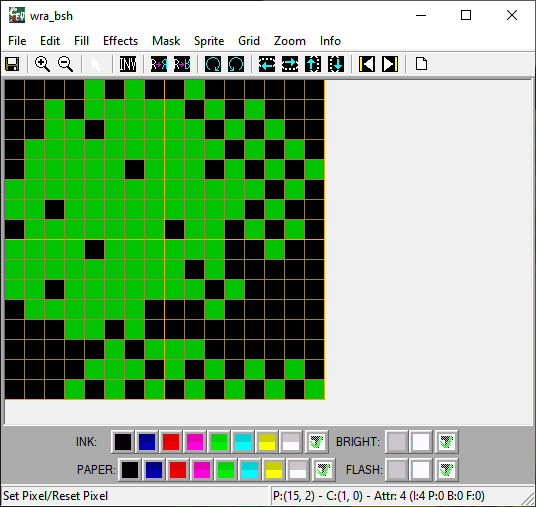
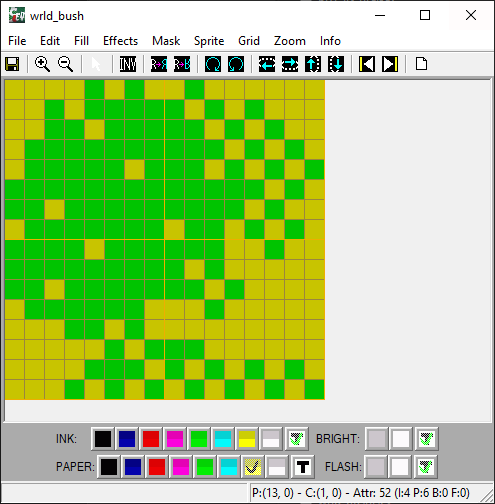
zxelda v4

diff --git a/lib/motorzx.h b/lib/motorzx.h
@@ -1,5 +1,37 @@
 // motorzx.h
 
+/*
+creacion de la funcion print sprite 8x8
+
+Formato del sprite (9 bytes total):
+
+Bytes 0–7: datos de píxeles (1 byte por fila × 8 filas)
+Byte 8: atributo de color (tinta + papel, usando la tabla del encabezado)
+
+Lógica del bucle draw9:
+
+ldi — copia 1 byte de píxeles de HL→DE y avanza ambos
+dec de — retrocede DE a la misma columna (deshace el avance de LDI)
+inc d — sube al siguiente pixel-row dentro del bloque de carácter (incrementa los bits 10–8 de la dirección de pantalla)
+djnz draw9 — repite 8 veces (C=255 evita que LDI afecte a B)
+Atributos: un solo ldi escribe el único byte de color para la celda de 1×1 carácter.
+
+Uso:
+unsigned char mi_sprite[9] = {
+    0b00111100,  // fila 0
+    0b01111110,  // fila 1
+    0b11011011,  // fila 2
+    0b11111111,  // fila 3
+    0b11111111,  // fila 4
+    0b11011011,  // fila 5
+    0b01111110,  // fila 6
+    0b00111100,  // fila 7
+    6            // color: tinta amarilla sobre papel negro
+};
+
+put_sprite_x8(mi_sprite, 10, 5);  // columna 10, fila 5
+*/
+
 // - COLORES -
 // - TINTA -
 // NEGRO	0	00000000
@@ -27,8 +59,9 @@
 // void port_out (int port, int value) //escribir en un puerto
 // int __FASTCALL__ port_in (int port) //leer un puerto
 // void wait_int (void) //interrupt CPU
-// void disable_int (void) //desactiva las interrupciones
 // void enable_int (void) //activa las interrupciones
+// void disable_int (void) //desactiva las interrupciones
+// void put_sprite_x8 (unsigned char *posicion, unsigned int x, unsigned int y) //muestra sprite 8x8 color
 // void put_sprite_x16 (unsigned char *posicion, unsigned int x, unsigned int y) //muestra sprite 16x16 color
 // void put_sprite_x24 (unsigned char *posicion, unsigned int x, unsigned int y) //muestra sprite 24x24 color
 // void put_sprite_x32 (unsigned char *posicion, unsigned int x, unsigned int y) //muestra sprite 32x32 color
@@ -122,6 +155,13 @@ void wait_int (void) {
     #endasm
 }
 
+// Activa las interrupciones
+void enable_int (void) {
+    #asm
+        ei
+    #endasm
+}
+
 // Desactiva las interrupciones
 void disable_int (void) {
     #asm
@@ -129,11 +169,63 @@ void disable_int (void) {
     #endasm
 }
 
-// Activa las interrupciones
-void enable_int (void) {
-    #asm
-        ei
-    #endasm
+// Posiciona un Sprite de 8x8 a color
+void put_sprite_x8 (unsigned char *posicion, unsigned int x, unsigned int y) {
+	// -------------------------------------------
+	// RUTINA DE IMPRESION DE UN SPRITE 8x8 PIXELS
+	// CON ATRIBUTOS EN CUALQUIER POSICION DE CARACTER
+	// ENTRADAS:
+	// D ser� la posici�n del cursor vertical en caracteres
+	// E ser� la posici�n del cursor horizontal en caracteres
+	// HL es la posici�n de memoria donde tenemos el sprite
+	// SALIDAS: se escribe en el mapa de pantalla
+	// ADVERTENCIAS: no comprueba l�mites de pantalla
+	// -------------------------------------------
+	#asm
+		ld hl,2			;pasamos la variable de entrada al acumulador
+		add hl,sp
+		ld d, (hl)
+		inc hl
+		inc hl
+		ld e, (hl)
+		inc hl
+		inc hl
+		ld a, (hl)
+        inc hl
+        ld h, (hl)
+        ld l, a
+		ld a, d		; recuperamos el valor vertical
+		and 7		; nos quedamos con la posici�n en el tercio
+		rrca
+        rrca
+        rrca		; rotamos para dejar su valor en m�ltiplos de 32 (linea)
+		and 224		; borramos el resto de bits por si las moscas
+		or e		; sumamos el valor horizontal
+		ld e, a		; e preparado
+		ld a, d
+		and 24		; modificamos seg�n el tercio de pantalla
+		or 64		; nos posicionamos a partir de 16384 (16384=64+0 en dos bytes)
+		ld d, a		; d preparado, ya tenemos la posici�n en pantalla
+		push de		; guardamos DE (la posici�n de pantalla)
+		ld b, 8
+		ld c,255	; cargamos C con 255 para no afectar B con LDI
+		.draw9
+		ldi
+		dec de
+		inc d
+		djnz draw9	; decrementa B y si es cero deja de saltar a draw
+; Ahora imprimimos los atributos
+		pop de		; recuperamos el valor horizontal
+		ld a,d		; calculamos el valor de posici�n en la pantalla
+        rra
+        rra
+        rra         ; multiplicamos por 32
+        and 3       ; nos quedamos con los tres bits bajos
+        or 88       ; apuntamos al comienzo del mapa de atributos
+        ld d,a      ; ya tenemos d listo, e no hay que cambiarlo
+		ldi         ; imprimimos el color
+		ret
+	#endasm
 }
 
 // Posiciona un Sprite de 16x16 a color

diff --git a/variables.h b/variables.h
@@ -23,7 +23,7 @@ extern unsigned char mapa5[];
 #asm
     ._mapa1 //start 000
     defb 0,1,1,1,1,1,1,0,0,1,1,1,1,1,1,0
-    defb 0,1,1,9,1,1,0,0,0,1,1,1,1,1,1,0
+    defb 0,1,1,0,1,1,0,0,0,1,1,1,1,1,1,0
     defb 0,1,1,0,0,0,0,0,0,1,1,1,1,1,1,0
     defb 0,1,0,0,0,0,0,0,0,0,1,1,1,1,1,0
     defb 0,1,0,0,0,0,0,0,0,0,0,0,0,0,1,0
@@ -82,21 +82,58 @@ unsigned char eanim;   // frame animacion enemigo
 unsigned char emov;    // contador movimiento enemigo
 unsigned char eactive; // enemigo activo en este mapa
 
+unsigned char llave_en_mapa; // 1 si la llave esta en el suelo
+unsigned char llave_mapa;   // en que mapa cayo la llave
+unsigned char llave_pos;    // indice en mapa_trabajo donde esta la llave
+unsigned char tiene_llave;  // 1 si el heroe la recogio
+
+unsigned char rand_seed; // semilla del generador; se inicializa con el registro R del Z80 (aleatorio en arranque)
+unsigned char entrada_mapa; // mapa donde aparece la entrada (1 o 2)
+unsigned char entrada_pos;  // indice en mapa_trabajo (y*16+x)
+
+// posiciones validas en mapa1: (3,1) (6,1) (8,1) (3,3) (9,3) (4,5) (11,5) (3,6)
+const unsigned char cand1[8] = {19, 22, 24, 51, 57, 84, 91, 99};
+// posiciones validas en mapa2: (3,1) (7,1) (3,3) (7,3) (4,5) (9,5) (3,7) (6,7)
+const unsigned char cand2[8] = {19, 23, 51, 55, 84, 89, 115, 118};
+
+void init_rand(void) {
+    #asm
+    ld a, r
+    ld (_rand_seed), a
+    #endasm
+}
+
+// Generador congruencial lineal: seed = seed*167+13. Rapido y determinista; semilla del registro R del Z80.
+unsigned char rand_next(void) {
+    rand_seed = rand_seed * 167 + 13;
+    return rand_seed;
+}
+
+void randomiza_entrada(void) {
+    unsigned char r;
+    r = rand_next();
+    entrada_mapa = (r & 1) ? 2 : 1;
+    r = rand_next() & 7;
+    entrada_pos = (entrada_mapa == 1) ? cand1[r] : cand2[r];
+}
+
 // Carga en mapa_trabajo los tiles del mapa actual y fija el color de borde.
 // Activa el enemigo solo en mapa1; en el resto permanece inactivo.
 void carga_datos_mapa (void) {
     eactive = (mapa_actual == 1) ? 1 : 0;
     if (mapa_actual == 1) {
-        port_out (254,6); 
+        port_out (254,6);
         for (x = 0; x < ancho_mapa * alto_mapa; x++) {
             mapa_trabajo[x] = mapa1[x];
         }
+        if (entrada_mapa == 1) mapa_trabajo[entrada_pos] = 9;
     }
     if (mapa_actual == 2) {
         port_out (254,6);
         for (x = 0; x < ancho_mapa * alto_mapa; x++) {
             mapa_trabajo[x] = mapa2[x];
         }
+        if (entrada_mapa == 2) mapa_trabajo[entrada_pos] = 9;
     }
     if (mapa_actual == 3) {
         port_out (254,0);
@@ -147,6 +184,12 @@ void inicia_variables_juego(void) {
     anim = 0;
     vista = 0;
 
+    //items
+    llave_en_mapa = 0;
+    llave_mapa = 0;
+    llave_pos = 0;
+    tiene_llave = 0;
+
     //ataque
     attack_timer = 0;
 
@@ -161,5 +204,7 @@ void inicia_variables_juego(void) {
     ancho_mapa = 16;
     alto_mapa = 9;
     mapa_actual = 1;
+    init_rand();
+    randomiza_entrada();
     carga_datos_mapa();
 }

diff --git a/logica.h b/logica.h
@@ -75,10 +75,10 @@ void calculo_frame(void) {
 }
 
 // Gestiona los teletransportadores especiales (tile VO/9 en posicion fija).
-// mapa1→cueva(mapa5), mapa4→mapa3, mapa3→mapa4, cueva→mapa1.
-// La posicion de la entrada esta fija en los datos del mapa (no es aleatoria).
-void check_warp(void) { //entrada a cueva en mapa 1
-    if (mapa_actual == 1 && mapa_trabajo[hmap] == 9) {
+// entrada(mapa1/2)→cueva(mapa5), mapa4→mapa3, mapa3→mapa4, cueva→mapa1.
+// La posicion de la entrada al mundo es aleatoria cada partida (randomiza_entrada).
+void check_warp(void) { //entrada a cueva (posicion aleatoria cada partida)
+    if (mapa_actual == entrada_mapa && mapa_trabajo[hmap] == 9) {
         mapa_actual = 5;
         hx = 6;
         hy = 7;
@@ -158,7 +158,8 @@ void sword_erase(void) {
     }
 }
 
-// Comprueba si el tile delante del heroe contiene al enemigo y lo elimina con 1 golpe.
+// Comprueba si el tile delante del heroe contiene al enemigo y lo elimina con 1 golpe,
+// soltando la llave en ese tile con probabilidad 50%.
 void check_sword_hit(void) {
     unsigned char tx, ty;
     if (!eactive) return;
@@ -170,8 +171,25 @@ void check_sword_hit(void) {
     }
     if (ex == tx && ey == ty) {
         eactive = 0;
+        if (rand_next() & 1) { // 50% drop chance
+            llave_mapa = mapa_actual;
+            llave_pos  = ey * ancho_mapa + ex;
+            mapa_trabajo[llave_pos] = 13;
+            llave_en_mapa = 1;
+        }
         render_tile(mapa_trabajo[ey*ancho_mapa+ex], ex, ey);
     }
+}
+
+void check_llave(void) {
+    if (!llave_en_mapa) return;
+    if (mapa_actual != llave_mapa) return;
+    if (hmap != llave_pos) return;
+    llave_en_mapa = 0;
+    tiene_llave = 1;
+    mapa_trabajo[llave_pos] = 0;
+    render_tile(0, llave_pos % ancho_mapa, llave_pos / ancho_mapa);
+    render_hud_llave();
 }
 
 void update_attack(void) {

diff --git a/pantalla.h b/pantalla.h
@@ -49,6 +49,7 @@ void restaura_fondo_tile (void) {
 // Dibuja el tile con el ID dado en la celda (x,y) de la rejilla del mapa.
 // IDs de tile: 0=suelo_mundo  1=arbol  2=matorral  3=bloque_dngn  4=baldosa  5=pared
 //              6=puerta_izq   7=puerta_der  8=puerta_arr  9=void/negro
+//              13=llave
 int render_tile(int grafico, int x, int y) {
     switch (grafico) {
         case 0:
@@ -81,6 +82,15 @@ int render_tile(int grafico, int x, int y) {
         case 9:
             put_sprite_x16 (sprite_negro, x*2+MAPA_OX, y*2+MAPA_OY);
         break;
+        case 13:
+            put_sprite_x8 (item_llave, x*2+MAPA_OX, y*2+MAPA_OY);
+        break;
+    }
+}
+
+void render_hud_llave(void) {
+    if (tiene_llave) {
+        put_sprite_x16(item_llave, 14, 2);
     }
 }
 
@@ -170,6 +180,7 @@ void cambiar_pantalla (unsigned char nueva) {
             inicia_variables_juego();
             render_hud_fondo();
             render_mapa();
+            render_hud_llave();
             render_hero(hx*2, hy*2);
         break;
         case PANTALLA_GAME_OVER:

diff --git a/graficos.h b/graficos.h
@@ -32,6 +32,8 @@ extern unsigned char swrd_lft [];
 extern unsigned char enmy_octoD_a [];
 extern unsigned char enmy_octoD_b [];
 
+extern unsigned char item_llave [];
+
 #asm
     ._wrld_frst
 	DEFB	224,192,241,240,241,242,113,250
@@ -45,7 +47,7 @@ extern unsigned char enmy_octoD_b [];
 	DEFB	125,213,255,250,223,244,127,106
 	DEFB	247,228,255,160,223,208,126, 32
 	DEFB	 26,  0,  5,192, 14,170, 21, 85
-	DEFB	  4,  4,  4,  4
+	DEFB	  52,  52,  52,  52
 
     ._wrld_door_left
 	DEFB	 60, 63, 66, 96,129, 79,133, 79
@@ -180,6 +182,10 @@ extern unsigned char enmy_octoD_b [];
 	DEFB	  3,192,  3,192,  3,192, 15,240
 	DEFB	 58, 58, 58, 58
 
+
+    ._item_llave
+	DEFB	 14, 19, 17,  9, 22, 32, 80,160
+	DEFB	 62
 
     ._sprite_negro
     defb 0,0,0,0,0,0,0,0,0,0,0,0,0,0,0,0

diff --git a/zxelda.c b/zxelda.c
@@ -30,6 +30,7 @@ void main (void) {
             case PANTALLA_JUEGO:
                 calculo_frame();
                 check_warp();
+                check_llave();
                 mueve_enemigo();
                 animacion_enemigo();
                 update_attack();